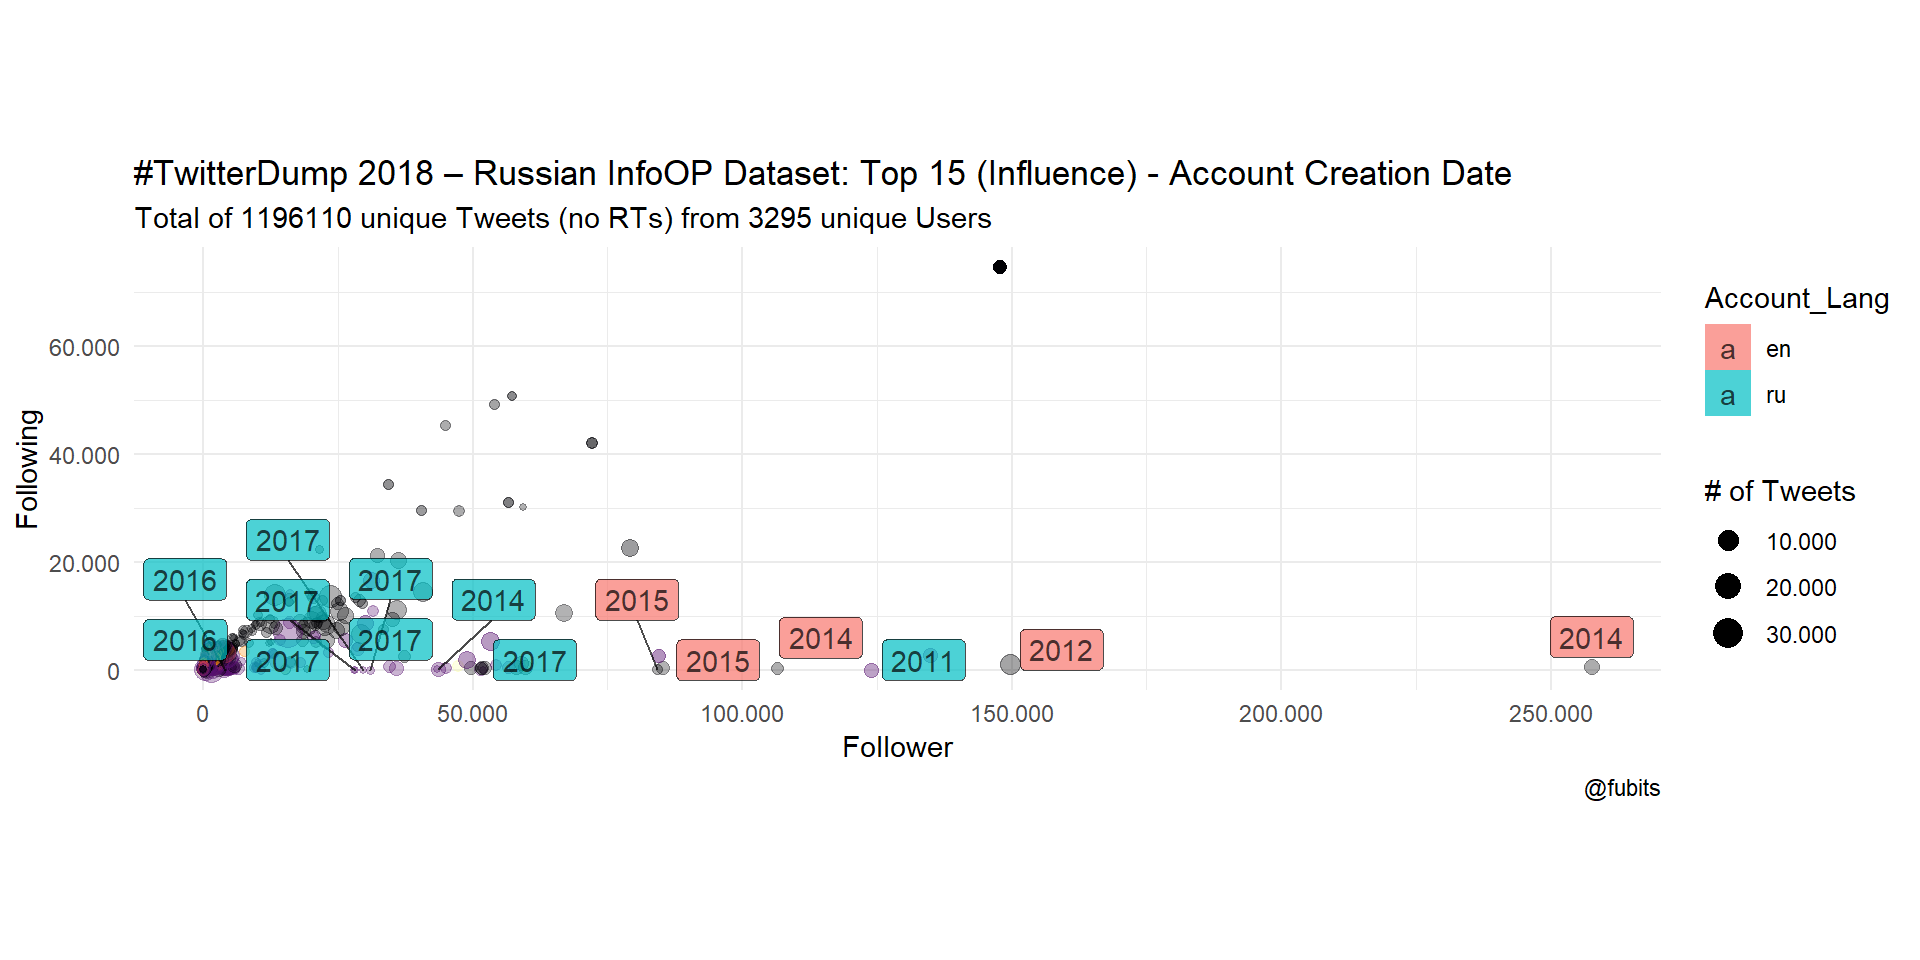
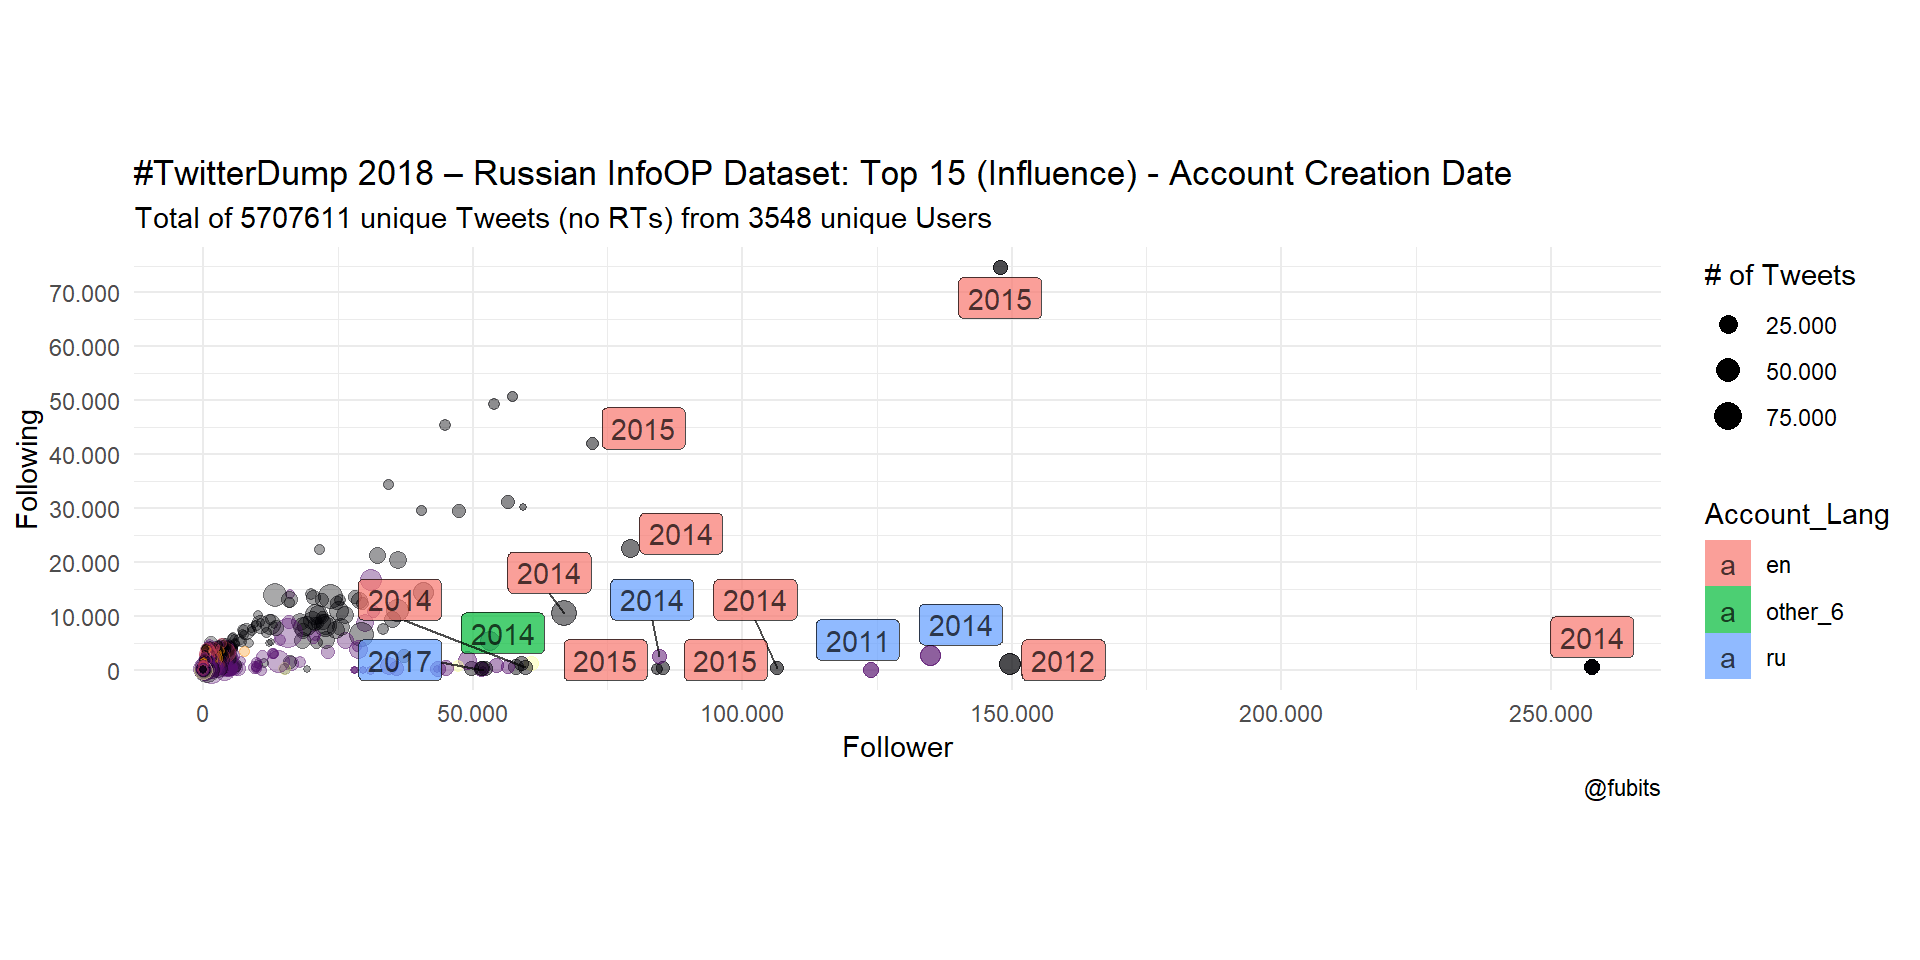
IRA update (data_unique.rds)

diff --git a/content/post/2018-10-26-election-hacking-exploring-2-million-tweets-from-the-russian-internet-research-agency-dataset-pt-1.html b/content/post/2018-10-26-election-hacking-exploring-2-million-tweets-from-the-russian-internet-research-agency-dataset-pt-1.html
@@ -91,7 +91,7 @@ data2_raw &lt;- data.table::fread(csvfile,
                           # na.strings = &quot;,,&quot;,
                           verbose = TRUE)</code></pre>
 <blockquote>
-<p>At first – I (<a href="https://twitter.com/avuko/status/1052573187869986816" target="_blank">like others</a>) – was getting an CRC error message when unpacking the zip file. The resulting CSV was only 1.17 GB big, so that were not all the Tweets from the IRA dataset. After upgrading <code>7-zip</code> to <code>v18.05</code> unpacking the <code>zip</code> results in a 5.3 GB big CSV, which is quite a difference I’d say :)</p>
+<p>At first – I (<a href="https://twitter.com/avuko/status/1052573187869986816" target="_blank">like others</a>) – was getting an CRC error message when unpacking the zip file. The resulting CSV was only 1.17 GB big, so that were not all the Tweets from the IRA dataset. After upgrading <code>7-zip</code> to <code>v18.05</code> unpacking the <code>zip</code> results in a <strong>5.3 GB big CSV</strong>, which is quite a difference I’d say :)</p>
 </blockquote>
 <blockquote>
 <p><code>data.table</code> is by light years the fastest method, but <code>read_csv()</code> gives me <code>NA</code>’s without an extra hassle while <code>data.table::fread()</code> seems to be ignoring any patterns for <code>na.strings</code>. Therefore I’ll be working with the data object from <code>read_csv()</code> here. Since <code>read_csv()</code> is rather slow with a <code>CSV</code> this big, you can speed up your exploration if you save the data object as an <code>.rds</code> or <code>.RData</code> file.</p>
@@ -99,7 +99,6 @@ data2_raw &lt;- data.table::fread(csvfile,
 <pre class="r"><code>data_path &lt;- here::here(&quot;static&quot;, &quot;data&quot;, &quot;IRA_Tweets&quot;, &quot;/&quot;)
 # if (!dir.exists(data_path)) dir.create(data_path)
 # saveRDS(data_raw, str_c(data_path, &quot;infoops_data.rds&quot;))
-# save(data_raw, file = str_c(data_path, &quot;infoops_data.RData&quot;))
 data_raw &lt;- readRDS(str_c(data_path, &quot;infoops_data.rds&quot;))</code></pre>
 <p>With a dataset this big, skimr::skim() is just perfect (and it’s output much more functional in RStudio)!</p>
 <pre class="r"><code>data_raw %&gt;% skimr::skim_to_wide() %&gt;% knitr::kable(&quot;html&quot;)</code></pre>
@@ -2877,7 +2876,7 @@ NA
 ##       n
 ##   &lt;int&gt;
 ## 1     0</code></pre>
-<p>That’s great news, so far!</p>
+<p>That’s great news so far!</p>
 <p><strong>(Optional: recode if(tweet_lang == NA &amp;/| user_lang == NA))</strong></p>
 <p>Since we’ve reduced our dataset and already recoded the <code>NA</code>s, this step is not necessary anymore (before that, I worked without <code>is_retweet == FALSE</code> and things looked a bit different). However, I’m just leaving the syntax here, since it might be useful to others (and to myself).</p>
 <pre class="r"><code>data_recoded &lt;- data_unique %&gt;%
@@ -2895,6 +2894,14 @@ NA
                             account_language)
                             )
          )</code></pre>
+<blockquote>
+<p>This is a good moment in our data preparation cycle to create a hardcopy of our processed <code>data_unique</code> object in a <code>.rds</code> file. This way, we won’t have to redo all the wrangling and recoding we did so far, and can just start with any in-depth analysis by loading the object with <code>data_unique &lt;- readRDS(file)</code>. ANd we can reduce our local in-memory load by <code>rm(data_raw)</code></p>
+</blockquote>
+<pre class="r"><code># data_path &lt;- here::here(&quot;static&quot;, &quot;data&quot;, &quot;IRA_Tweets&quot;, &quot;/&quot;)
+# if (!dir.exists(data_path)) dir.create(data_path)
+saveRDS(data_unique, str_c(data_path, &quot;infoops_data_processed.rds&quot;))
+rm(data_raw)
+data_unique &lt;- readRDS(str_c(data_path, &quot;infoops_data_processed.rds&quot;))</code></pre>
 </div>
 </div>
 <div id="who-tweeted-in-what-language" class="section level1">
@@ -2943,7 +2950,7 @@ NA
     caption = str_c(&quot;@fubits&quot;)
   ) +
   guides(fill = FALSE)</code></pre>
-<p><img src="/post/2018-10-26-election-hacking-exploring-2-million-tweets-from-the-russian-internet-research-agency-dataset-pt-1_files/figure-html/unnamed-chunk-23-1.png" width="672" /></p>
+<p><img src="/post/2018-10-26-election-hacking-exploring-2-million-tweets-from-the-russian-internet-research-agency-dataset-pt-1_files/figure-html/unnamed-chunk-24-1.png" width="672" /></p>
 <pre class="r"><code>data_unique %&gt;%
   group_by(account_language) %&gt;%
   summarise(n = n()) %&gt;%
@@ -2971,7 +2978,7 @@ NA
     caption = str_c(&quot;@fubits&quot;)
   ) +
   guides(fill = FALSE)</code></pre>
-<p><img src="/post/2018-10-26-election-hacking-exploring-2-million-tweets-from-the-russian-internet-research-agency-dataset-pt-1_files/figure-html/unnamed-chunk-24-1.png" width="672" /></p>
+<p><img src="/post/2018-10-26-election-hacking-exploring-2-million-tweets-from-the-russian-internet-research-agency-dataset-pt-1_files/figure-html/unnamed-chunk-25-1.png" width="672" /></p>
 <div id="consolidating-tweet-languages-per-account" class="section level3">
 <h3><span class="header-section-number">2.2.1</span> Consolidating Tweet Languages per Account</h3>
 <pre class="r"><code>data_counts &lt;- data_unique %&gt;%
@@ -3383,7 +3390,7 @@ list(f = 1:7, n = c(344, 1, 4, 45398, 19, 560, 114))
     alpha = &quot;Alpha: # Retweets&quot;
   ) +
     guides(color = FALSE, alpha = FALSE)</code></pre>
-<p><img src="/post/2018-10-26-election-hacking-exploring-2-million-tweets-from-the-russian-internet-research-agency-dataset-pt-1_files/figure-html/unnamed-chunk-28-1.png" width="960" /></p>
+<p><img src="/post/2018-10-26-election-hacking-exploring-2-million-tweets-from-the-russian-internet-research-agency-dataset-pt-1_files/figure-html/unnamed-chunk-29-1.png" width="960" /></p>
 <p>From what we can see here, we have quite an amount of “influencers” - accounts with lots of followers and low rates of following others.</p>
 <p>What if we look at the account languages?</p>
 <pre class="r"><code>ggplot(data_counts, aes(x = Follower, y = Following)) +
@@ -3417,7 +3424,7 @@ list(f = 1:7, n = c(344, 1, 4, 45398, 19, 560, 114))
     guides(alpha = FALSE,
            colour = guide_legend(override.aes = list(size = 5, stroke = 1.5))
            )</code></pre>
-<p><img src="/post/2018-10-26-election-hacking-exploring-2-million-tweets-from-the-russian-internet-research-agency-dataset-pt-1_files/figure-html/unnamed-chunk-29-1.png" width="960" /></p>
+<p><img src="/post/2018-10-26-election-hacking-exploring-2-million-tweets-from-the-russian-internet-research-agency-dataset-pt-1_files/figure-html/unnamed-chunk-30-1.png" width="960" /></p>
 <p>And now let’s just look at when the most influential accounts were created.</p>
 <pre class="r"><code>influencers &lt;- data_counts %&gt;% 
   arrange(desc(Influence)) %&gt;% 
@@ -3459,7 +3466,7 @@ data_counts %&gt;%
     ) +
       guides(alpha = FALSE,
              colour = FALSE)</code></pre>
-<p><img src="/post/2018-10-26-election-hacking-exploring-2-million-tweets-from-the-russian-internet-research-agency-dataset-pt-1_files/figure-html/unnamed-chunk-30-1.png" width="960" /></p>
+<p><img src="/post/2018-10-26-election-hacking-exploring-2-million-tweets-from-the-russian-internet-research-agency-dataset-pt-1_files/figure-html/unnamed-chunk-31-1.png" width="960" /></p>
 <p>Interesting, one of the most influential accounts is neither Russian nor English-speaking!</p>
 <pre class="r"><code>data_counts %&gt;% 
   arrange(desc(Influence)) %&gt;% 
@@ -3772,7 +3779,7 @@ en-gb
     ) +
       guides(alpha = FALSE,
              colour = FALSE)</code></pre>
-<p><img src="/post/2018-10-26-election-hacking-exploring-2-million-tweets-from-the-russian-internet-research-agency-dataset-pt-1_files/figure-html/unnamed-chunk-33-1.png" width="960" /></p>
+<p><img src="/post/2018-10-26-election-hacking-exploring-2-million-tweets-from-the-russian-internet-research-agency-dataset-pt-1_files/figure-html/unnamed-chunk-34-1.png" width="960" /></p>
 <p>We can see from both plots that the most influential or active accounts were created in 2014 or later, and that the relation between Russian- and English-labelled accounts is rather balanced in terms of max. Tweet numbers. However, English-speaking accounts are more dominant in terms of numeric dominance (Following/Followers).</p>
 </div>
 </div>
@@ -3788,7 +3795,7 @@ en-gb
   knitr::kable(&quot;html&quot;, caption = &quot;Top 20 Language Combinations from the IRA Dataset&quot;)</code></pre>
 <table>
 <caption>
-<span id="tab:unnamed-chunk-34">Table 2.1: </span>Top 20 Language Combinations from the IRA Dataset
+<span id="tab:unnamed-chunk-35">Table 2.1: </span>Top 20 Language Combinations from the IRA Dataset
 </caption>
 <thead>
 <tr>
@@ -4054,7 +4061,7 @@ in
       x = &quot;Tweet Language&quot;,
       y = &quot;Account Language&quot;
     )</code></pre>
-<p><img src="/post/2018-10-26-election-hacking-exploring-2-million-tweets-from-the-russian-internet-research-agency-dataset-pt-1_files/figure-html/unnamed-chunk-35-1.png" width="672" /></p>
+<p><img src="/post/2018-10-26-election-hacking-exploring-2-million-tweets-from-the-russian-internet-research-agency-dataset-pt-1_files/figure-html/unnamed-chunk-36-1.png" width="672" /></p>
 <pre class="r"><code>data_unique %&gt;% 
   group_by(account_language, tweet_language) %&gt;% 
   count() %&gt;% 
@@ -4079,7 +4086,7 @@ in
       caption = str_c(&quot;@fubits&quot;),
       fill = &quot;Language Combo:\nShare of Total&quot;
     )</code></pre>
-<p><img src="/post/2018-10-26-election-hacking-exploring-2-million-tweets-from-the-russian-internet-research-agency-dataset-pt-1_files/figure-html/unnamed-chunk-36-1.png" width="672" /></p>
+<p><img src="/post/2018-10-26-election-hacking-exploring-2-million-tweets-from-the-russian-internet-research-agency-dataset-pt-1_files/figure-html/unnamed-chunk-37-1.png" width="672" /></p>
 <blockquote>
 <p>Alright, that’s enough exploration and heavy data wrangling for today. Stay tuned for Part 2: Content Analysis</p>
 </blockquote>
